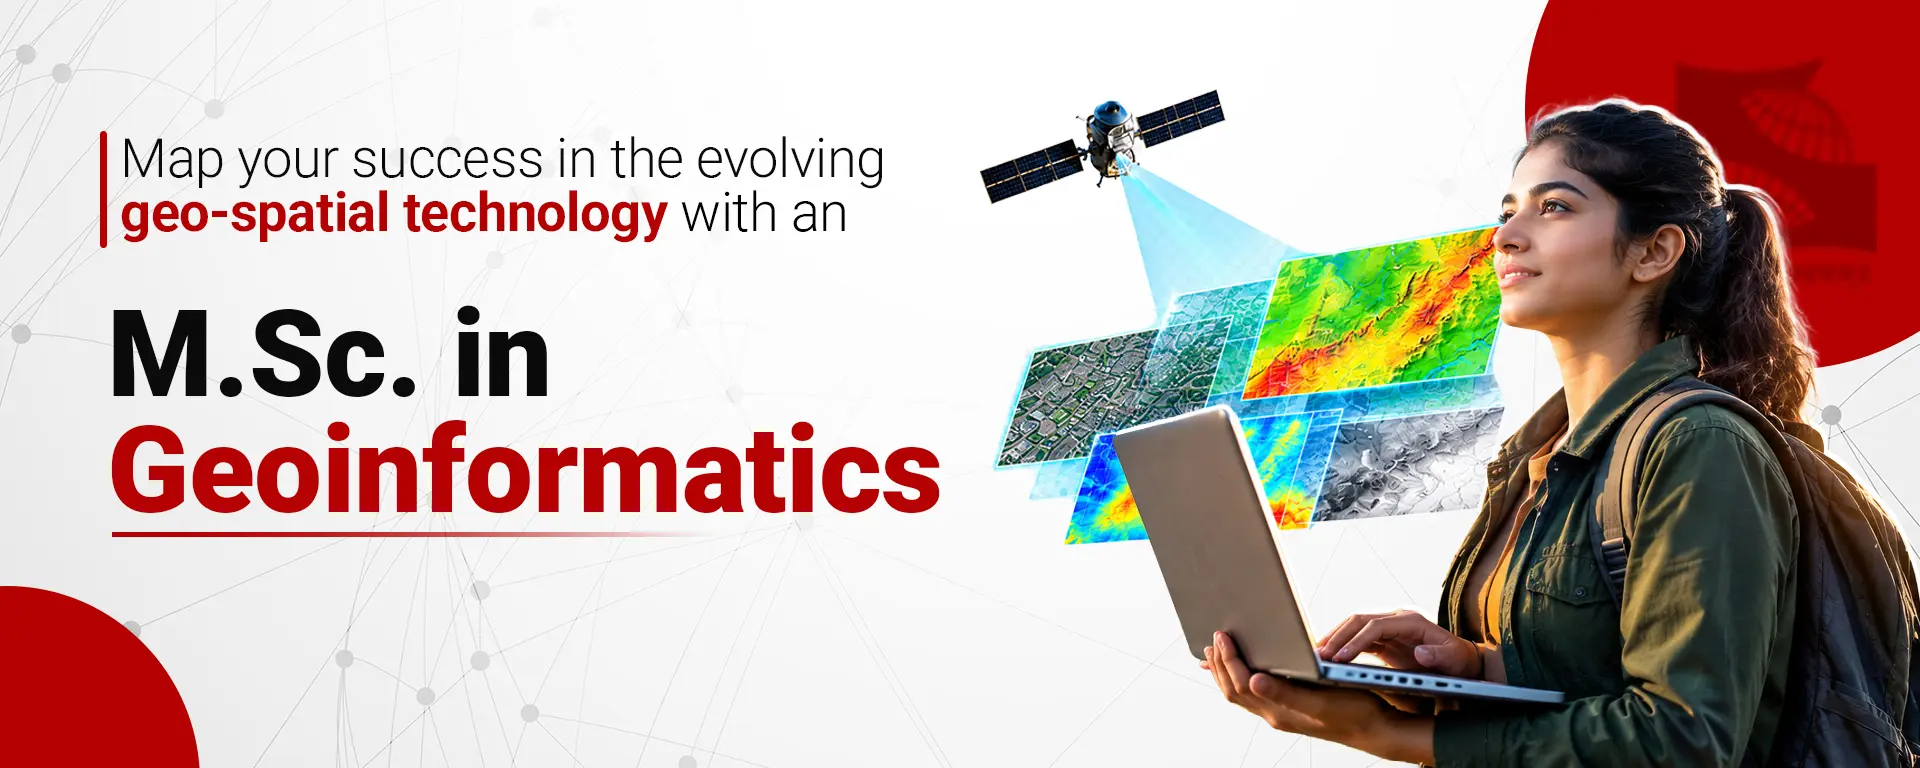
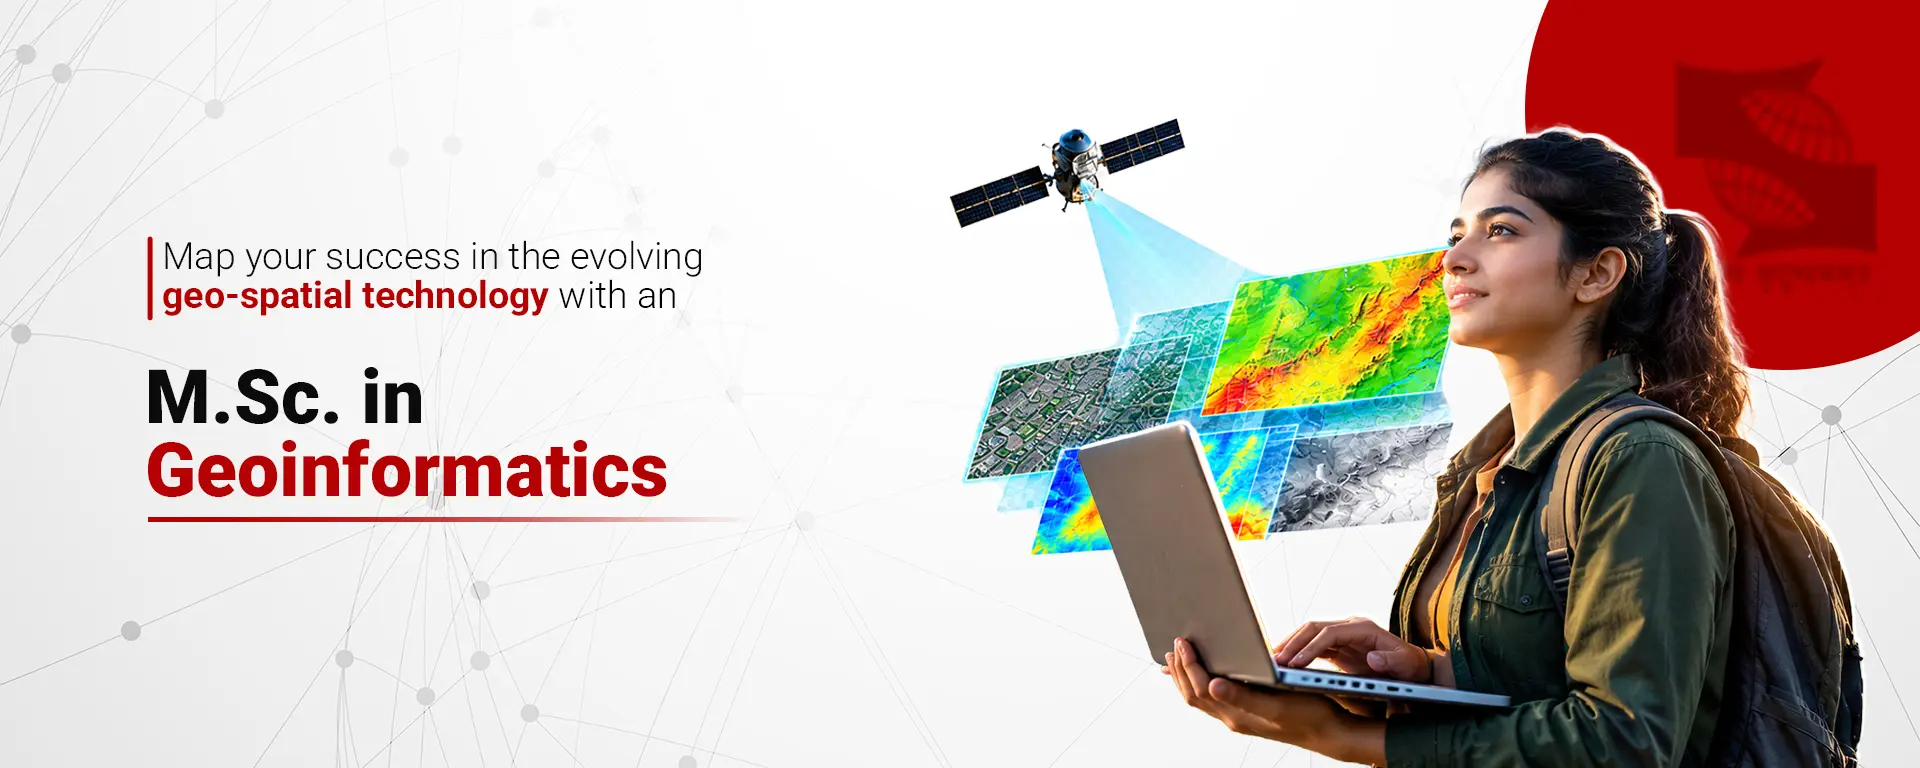
changes

diff --git a/assets/css/style.css b/assets/css/style.css
@@ -2306,6 +2306,7 @@ table th {
 .sholarships_heading {
   font-size: 20px;
   font-family: var(--font-roboto-600);
+  color: var(--red-color);
 }
 
 .sholarships_image {

diff --git a/resources/views/pages/programmes/msc-dssa-dual-degree/programme-structure.blade.php b/resources/views/pages/programmes/msc-dssa-dual-degree/programme-structure.blade.php
@@ -66,21 +66,21 @@ courses and advance your career with a master\'s in Geoinformatics.')
                                 <div class="my_tabbing">
                                     <ul class="nav nav-tabs custom-tabs" id="batchTabs" role="tablist">
                                         <li class="nav-item" role="presentation">
-                                            <button class="nav-link active" id="batch-2026-tab" data-bs-toggle="tab"
+                                            <button class="nav-link" id="batch-2026-tab" data-bs-toggle="tab"
                                                 data-bs-target="#batch-2026" type="button" role="tab">
                                                 Batch 2026-2028
                                             </button>
                                         </li>
                                         <li class="nav-item" role="presentation">
-                                            <button class="nav-link" id="batch-2025-tab" data-bs-toggle="tab"
+                                            <button class="nav-link active" id="batch-2025-tab" data-bs-toggle="tab"
                                                 data-bs-target="#batch-2025" type="button" role="tab">
                                                 Batch 2025-2027
                                             </button>
                                         </li>
                                     </ul>
                                     <div class="tab-content" id="batchTabsContent">
-                                        <div class="tab-pane fade show active" id="batch-2026" role="tabpanel">
-                                            <div class="program_structure_content">
+                                        <div class="tab-pane fade" id="batch-2026" role="tabpanel">
+                                            <!-- <div class="program_structure_content">
                                                 <div class="program_structure_listing">
                                                     <h2 class="program_structure_heading">Semester 1 - Generic Core
                                                         Courses</h2>
@@ -420,9 +420,9 @@ courses and advance your career with a master\'s in Geoinformatics.')
                                                         </table>
                                                     </div>
                                                 </div>
-                                            </div>
+                                            </div> -->
                                         </div>
-                                       <div class="tab-pane fade" id="batch-2025" role="tabpanel">
+                                       <div class="tab-pane fade show active" id="batch-2025" role="tabpanel">
                                             <div class="program_structure_content">
                                                 <div class="program_structure_listing">
                                                     <h2 class="program_structure_heading">Semester 1 - Generic Core Courses</h2>
@@ -477,13 +477,13 @@ courses and advance your career with a master\'s in Geoinformatics.')
                                                                     <td>2</td>
                                                                 </tr>
                                                                 <tr>
-                                                                    <td>9</td>
+                                                                    <td></td>
                                                                     <td>Health and Wellness Module I #</td>
                                                                     <td>0</td>
                                                                 </tr>
-                                                                <tr>
-                                                                    <td colspan="2"><strong>Total:</strong></td>
-                                                                    <td><strong>21</strong></td>
+                                                                <tr class="total-row">
+                                                                    <td colspan="2">Total:</td>
+                                                                    <td>21</td>
                                                                 </tr>
                                                             </tbody>
                                                         </table>
@@ -528,92 +528,37 @@ courses and advance your career with a master\'s in Geoinformatics.')
                                                                 </tr>
                                                                 <tr>
                                                                     <td>6</td>
-                                                                    <td>Health and Wellness Module II #</td>
-                                                                    <td>0</td>
-                                                                </tr>
-                                                                <tr>
-                                                                    <td colspan="2"><strong>Total:</strong></td>
-                                                                    <td><strong>12</strong></td>
-                                                                </tr>
-                                                            </tbody>
-                                                        </table>
-                                                    </div>
-                                                </div>
-                                                <div class="program_structure_listing">
-                                                    <h2 class="program_structure_heading">Semester 2 - Specialisation Core Courses : Artificial Intelligence Algorithms</h2>
-                                                    <div class="table-responsive">
-                                                        <table class="table mb-0 fee_table">
-                                                            <thead>
-                                                                <tr>
-                                                                    <th>Sr. No.</th>
-                                                                    <th>Course Title</th>
-                                                                    <th>Total Credits</th>
-                                                                </tr>
-                                                            </thead>
-                                                            <tbody>
-                                                                <tr>
-                                                                    <td>1</td>
                                                                     <td>Data Analysis Using Python</td>
                                                                     <td>3</td>
                                                                 </tr>
                                                                 <tr>
-                                                                    <td>2</td>
+                                                                    <td>7</td>
                                                                     <td>Computer Vision</td>
                                                                     <td>3</td>
                                                                 </tr>
                                                                 <tr>
-                                                                    <td>3</td>
+                                                                    <td>8</td>
                                                                     <td>Programming for computational sciences</td>
                                                                     <td>3</td>
                                                                 </tr>
                                                                 <tr>
-                                                                    <td>4</td>
+                                                                    <td>9</td>
                                                                     <td>Big Data Analytical Techniques and Practical Applications</td>
                                                                     <td>2</td>
                                                                 </tr>
                                                                 <tr>
-                                                                    <td colspan="2"><strong>Total:</strong></td>
-                                                                    <td><strong>11</strong></td>
-                                                                </tr>
-                                                            </tbody>
-                                                        </table>
-                                                    </div>
-                                                </div>
-                                                <div class="program_structure_listing">
-                                                    <h2 class="program_structure_heading">Semester 2 - Specialisation Core Courses : Geointelligence</h2>
-                                                    <div class="table-responsive">
-                                                        <table class="table mb-0 fee_table">
-                                                            <thead>
-                                                                <tr>
-                                                                    <th>Sr. No.</th>
-                                                                    <th>Course Title</th>
-                                                                    <th>Total Credits</th>
-                                                                </tr>
-                                                            </thead>
-                                                            <tbody>
-                                                                <tr>
-                                                                    <td>1</td>
-                                                                    <td>Advance Python Programming for Spatial Analytics</td>
-                                                                    <td>3</td>
+                                                                    <td>10</td>
+                                                                    <td>Health and Wellness Module II #</td>
+                                                                    <td>0</td>
                                                                 </tr>
                                                                 <tr>
-                                                                    <td>2</td>
-                                                                    <td>Programming for Spatial Sciences</td>
-                                                                    <td>3</td>
-                                                                </tr>
-                                                                <tr>
-                                                                    <td>3</td>
-                                                                    <td>Geospatial Analytics</td>
-                                                                    <td>3</td>
-                                                                </tr>
-                                                                <tr>
-                                                                    <td>4</td>
-                                                                    <td>Spatial Big Data and Storage Analytics</td>
-                                                                    <td>2</td>
+                                                                    <td></td>
+                                                                    <td>Health and Wellness *</td>
+                                                                    <td></td>
                                                                 </tr>
                                                                 <tr>
                                                                     <td colspan="2"><strong>Total:</strong></td>
-                                                                    <td><strong>11</strong></td>
+                                                                    <td><strong>23</strong></td>
                                                                 </tr>
                                                             </tbody>
                                                         </table>
@@ -626,11 +571,7 @@ courses and advance your career with a master\'s in Geoinformatics.')
                                                             <tbody>
                                                                 <tr>
                                                                     <td colspan="3">
-                                                                        Semester 3 and Semester 4 Courses delivered as per the syllabus and
-                                                                        structure of Master of Science Degree Technical Systems Control -
-                                                                        Artificial Intelligence and Space Sciences from the RUDN University
-                                                                        Russia. Students will take courses to fulfill the credit requirements
-                                                                        of SIU programme.
+                                                                        Courses delivered as per the syllabus and structure of Master of Science Degree Technical Systems Control - Artificial Intelligence and Space Sciences from the RUDN University Russia. Students will take courses to fulfill the credit requirements of SIU programme.
                                                                     </td>
                                                                 </tr>
                                                             </tbody>

diff --git a/resources/views/pages/index.blade.php b/resources/views/pages/index.blade.php
@@ -55,6 +55,12 @@ industry-focused courses and build a future-ready career. Apply now!')
                     class="img-fluid">
             </div>
         </div>
+        <div class="banner_listing swiper-slide">
+            <div class="banner_imgbox_listing">
+                <img src="{{ asset('assets/images/home/banner-image-04.webp') }}" alt="Banner Image"
+                    class="img-fluid">
+            </div>
+        </div>
     </div>
     <div class="swiper-pagination"></div>
 </div>
